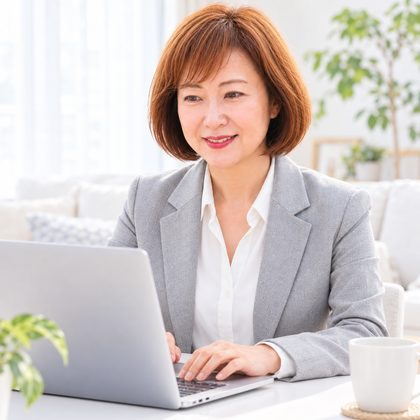
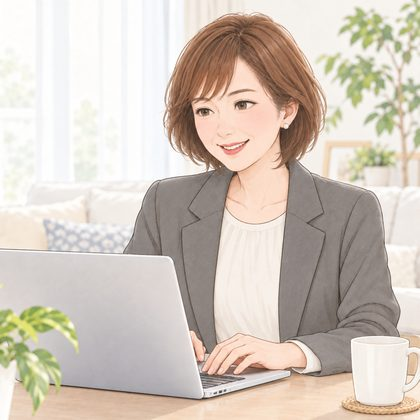
renewal: METHOD 04をイラストに差し替え

diff --git a/renewal/index.html b/renewal/index.html
@@ -13,9 +13,9 @@
   <link rel="preconnect" href="https://fonts.googleapis.com">
   <link rel="preconnect" href="https://fonts.gstatic.com" crossorigin>
   <link rel="stylesheet" href="https://fonts.googleapis.com/css2?family=Jost:wght@300;400;500&family=Shippori+Mincho:wght@500;600&family=Klee+One:wght@400;600&family=Noto+Sans+JP:wght@400;500;700&display=swap">
-  <link rel="stylesheet" href="style.css?v=20261004n">
+  <link rel="stylesheet" href="style.css?v=20261004o">
   <script>document.documentElement.classList.add('js')</script>
-  <script src="site.js?v=20261004n" defer></script>
+  <script src="site.js?v=20261004o" defer></script>
 </head>
 <body>
   <a class="skip-link" href="#main">本文へ移動</a>

diff --git a/HANDOFF.md b/HANDOFF.md
@@ -46,7 +46,7 @@ python3 -m http.server 8790
 - トップの演出（2026-10-04更新）: 雲の形の考えごとの吹き出し（「頭の中の想い」を表す。形はJSで言葉の長さに合わせて描画）が0.35秒ずつ、ふわっと1つずつ現れ（約3秒）、出そろってから集まる → 万年筆（ネイビー軸・金のペン先のSVG）が現れ、コピーを1文字ずつ書く（ペン先が文字を追う）→ 書き終えると「Webへ。」の右下で止まる → サブコピーとボタンが出る。千穂さんの「ペンで書いているみたいにしたい」による。
 - トップの人物（2026-10-04更新）: 千穂さんの写真ではなく、PROBLEM以降と同じイラストの女性を左下に配置（雲の吹き出しの「持ち主」＝読み手）。最初は困った顔（problem-woman.jpg）、万年筆が書き終えると「あ、そうか」の顔（why-woman.jpg）にふわっと切り替わる。理由: トップの主役は読み手。ページ全体で同じ女性が困る→気づく→ほっとする流れになる。
 - 千穂さんのひらめき写真（hero-chiho.jpg）は CONTACT のボタンの上へ移動（「誰に頼むか」を決める場面で顔を見せる）。
-- 各欄のイラスト（2026-10-04）: 千穂さんがGPTで作った同一人物の女性。PROBLEM=problem-woman.jpg「うーん…」、WHY=why-woman.jpg「あ、そうか」、VOICE=voice-woman.jpg「ほっ…」（困った→気づく→ほっとする、の流れ）。千穂さん本人ではなく読み手側の人物にした（本人の悩みに見えないように）。METHOD=step-talk（カフェで語らう二人）/step-write/step-word/step-make（ノートPCに向かう千穂さん風の写真。他3つはイラストで、そろえるならイラスト版に差し替え可）。GPT指示文= Mothership-lab 003 outputs/harmony_output/20261004-GPTイラスト指示文.txt。PNG原本は renewal/img/ に置いたままで、.gitignore で除外。
+- 各欄のイラスト（2026-10-04）: 千穂さんがGPTで作った同一人物の女性。PROBLEM=problem-woman.jpg「うーん…」、WHY=why-woman.jpg「あ、そうか」、VOICE=voice-woman.jpg「ほっ…」（困った→気づく→ほっとする、の流れ）。千穂さん本人ではなく読み手側の人物にした（本人の悩みに見えないように）。METHOD=step-talk（カフェで語らう二人）/step-write/step-word/step-make（イラスト「PC作業のちほ.png」から切り抜き。2026-10-04に写真風から差し替え）。GPT指示文= Mothership-lab 003 outputs/harmony_output/20261004-GPTイラスト指示文.txt。PNG原本は renewal/img/ に置いたままで、.gitignore で除外。
 - 動き: 丸い画像（トップ・PROBLEM・WHY・VOICE）と吹き出しは、上下8px・4.8秒周期でふわふわ浮く。METHODの4つは静止（千穂さん指定）。
 - 共通クラス: .icon-head / .face-icon / .face-bubble / .face-circle / .step-img。CSS・JSの読み込みには版番号（?v=）を付けていて、更新のたびに変える（ブラウザが古い版を使い続けるのを防ぐため）。
 - プロフィール文（2026-10-04）: 「セールスライティングとマーケティング、コーチングも学んでいます。」（師事先の名前は出さない）
